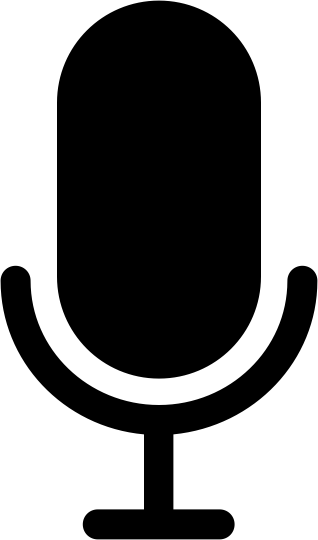
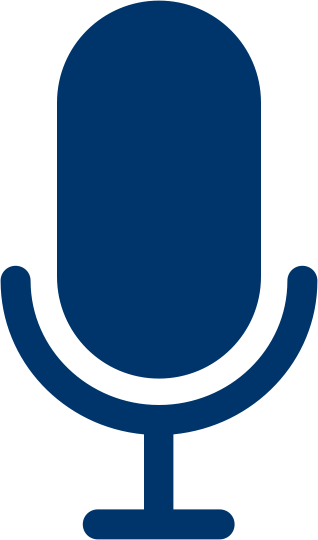
Add files via upload

diff --git a/index.html b/index.html
@@ -1,7 +1,7 @@
 <html>
 <head>
   
-	<title>SA Cambridge Application</title>
+	<title>SA Yale Application</title>
 	
 	<link href="css/image.css" rel="stylesheet">
 	<link rel="stylesheet" href="css/style.css" type="text/css">
@@ -16,7 +16,7 @@
 <body>
 	<!--CONTAINER DIV-->
 	<div class="containerExtra">
-        <h1>Hi, I am a chatbot version of Dr. Hawking (not as intelligent ofcourse)! Why don't you introduce yourself to me ("my name is..." or "this is...") and I'll help you learn a little more about Shubham!</h1>
+        <h1>Hi, I am a chatbot version of Handsome Dan (not as handsome ofcourse)! Why don't you introduce yourself to me ("my name is..." or "this is...") and I'll help you learn a little more about Shubham!</h1>
      </div>
     
     <!--CONTAINER DIV-->
@@ -31,13 +31,13 @@
     
     <!--CONTAINER DIV-->
 	<div class="container2">
-        <button class="speakbutton" id="startspeaking">Speak</button>
+        <button class="speakbutton" id="startspeaking">Start</button>
         <button class="speakbutton" id="stopspeaking">Stop</button>
      </div> 
     
 	<!--CONTAINER DIV-->
 	<div class="container3">
-            <img id="robotImage" src="images/StephenHawking.png">
+            <img id="robotImage" src="images/HandsomeDan.png">
             <div id="spokenResponse" class="spoken-response">
                 <div class="spoken-response__text"></div>
 

diff --git a/css/style.css b/css/style.css
@@ -1,7 +1,7 @@
 body { 
     display: flex;
     flex-direction: column;
-    background-color: #000000; 
+    background-color: #00356B; 
     font-family: "Titillium Web", Arial, sans-serif;
     font-size: 20px;
 }
@@ -27,7 +27,7 @@ body {
 }
 
 .speakbutton {
-    color: #000000;
+    color: #00356B;
     font-size: 20px;
     background-color: #FFFFFF;
     font-family: "Titillium Web", Arial, sans-serif;
@@ -41,7 +41,7 @@ body {
 }
 
 .speakbutton:hover {
-    background-color: #000000;
+    background-color: #00356B;
     color: #FFFFFF;
     border: 1px solid #FFFFFF;
     -webkit-transition: all 0.2s ease-in;
@@ -49,9 +49,9 @@ body {
 
 /*INPUT STYLE*/
 input {
-    background-color: #000000;
+    background-color: #00356B;
     border: 0;
-    color: #000000;
+    color: #00356B;
     font-family: "Titillium Web";
     font-size: 20px;
     width: 0px;
@@ -100,7 +100,7 @@ input {
     color: #FFFFFF;	
     -webkit-transition: all 0.35s ease-in-out;
     transition: all 0.35s ease-in-out;
-    background-color: #000000; 
+    background-color: #00356B; 
     border: 0px solid #ffffff; 
     padding: 1em; 
     border-radius: 25px; 
